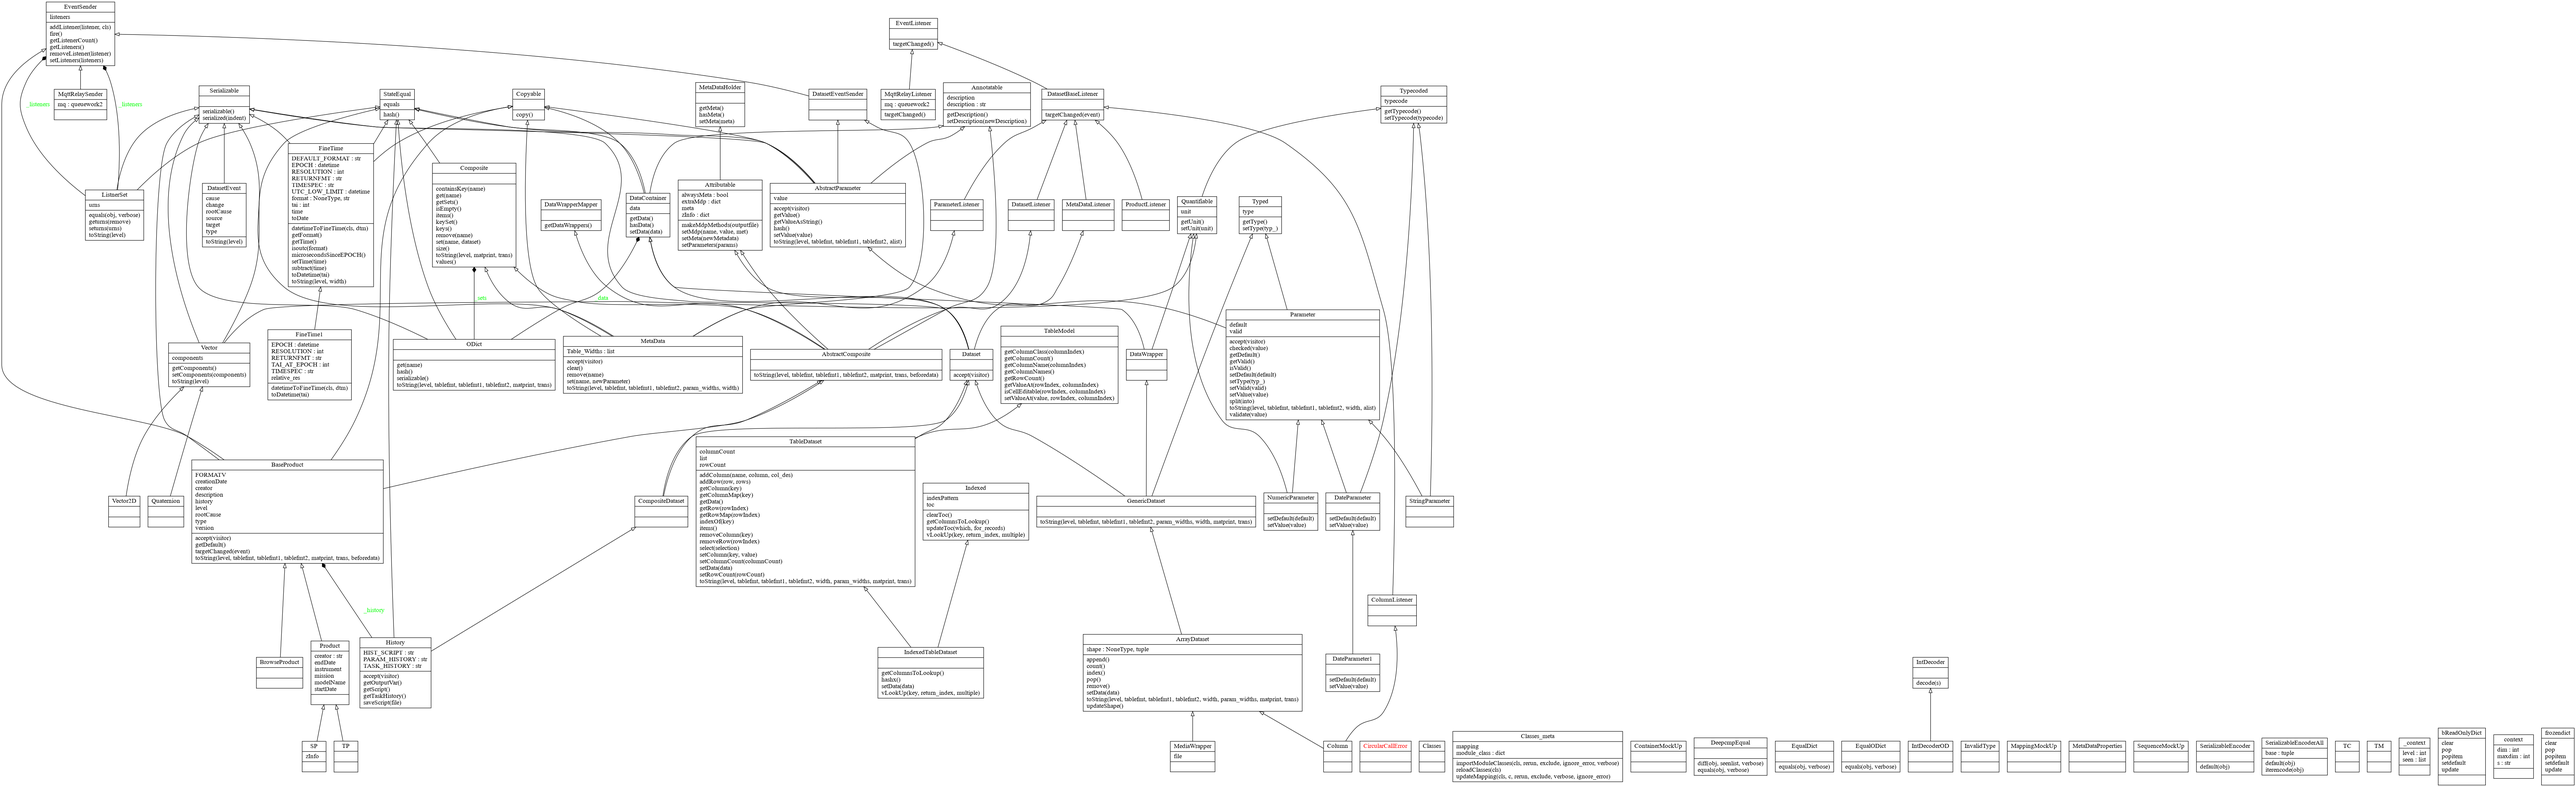
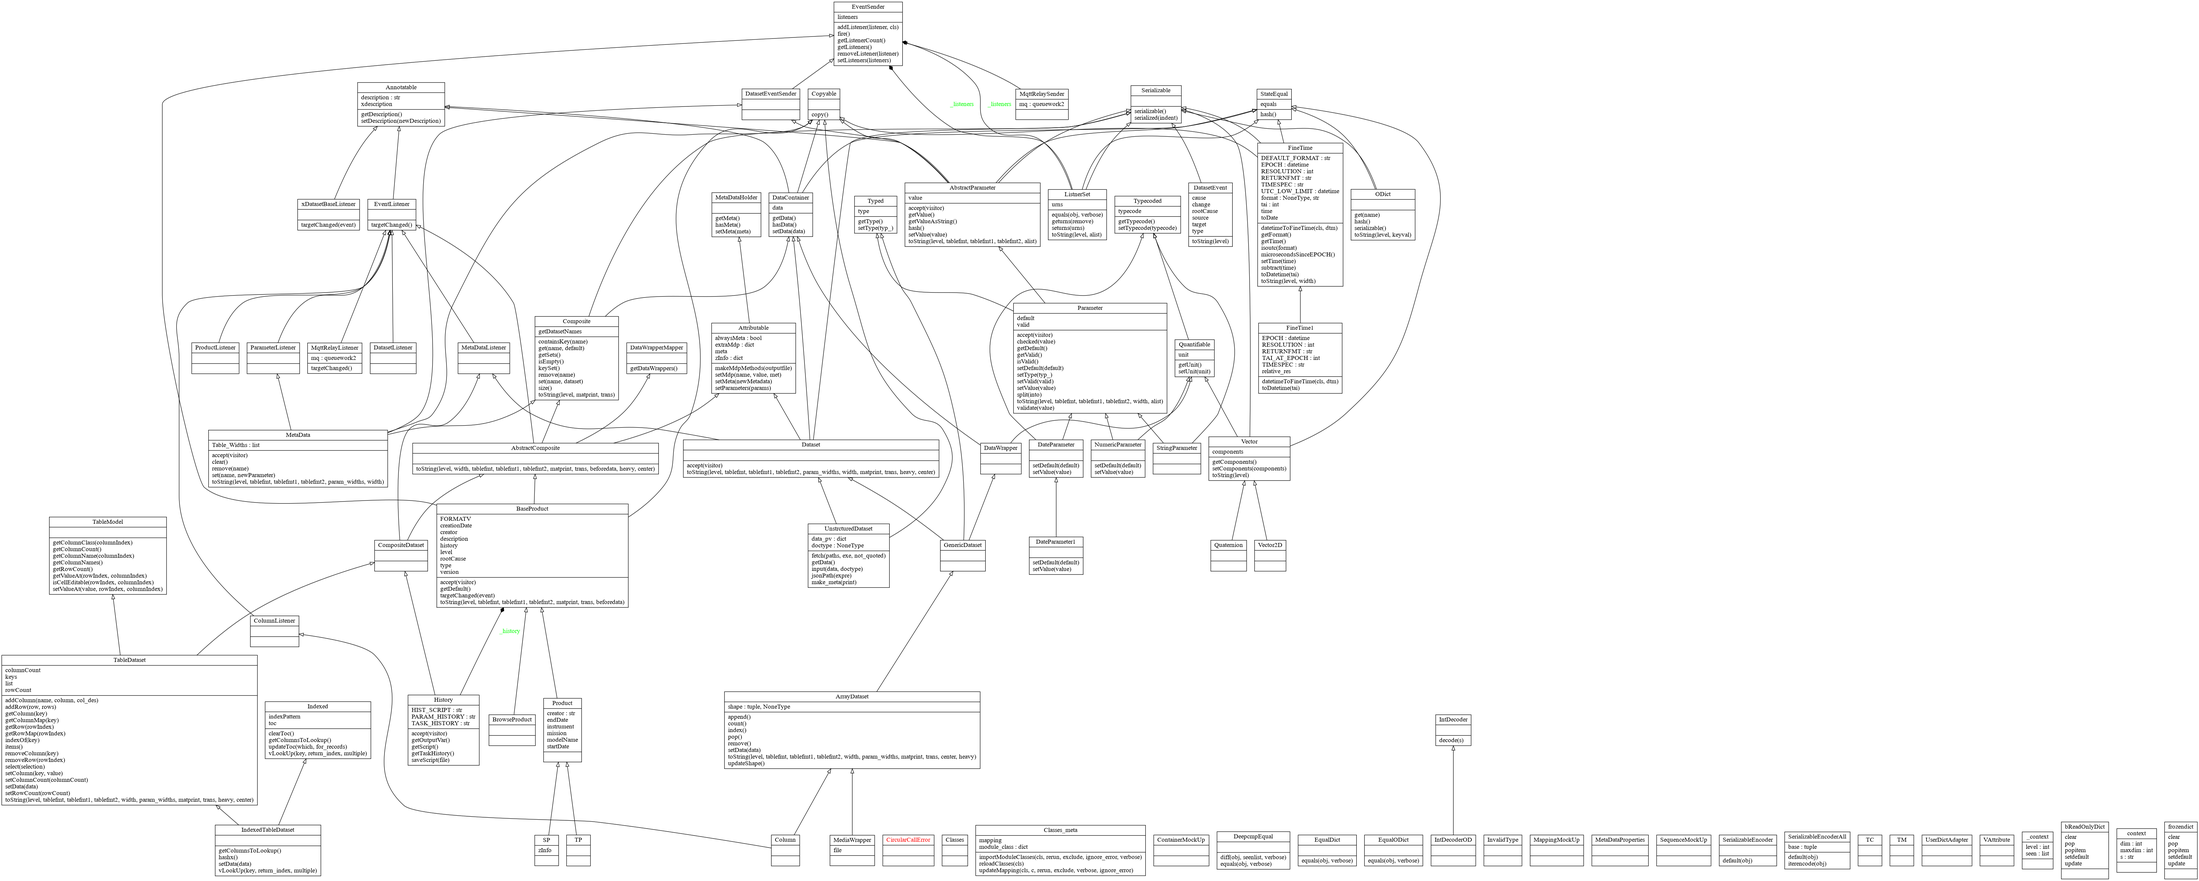
Composite inherites MutableMappin so datasets drops 'data' in serialized forms, and have more streamlined toastring. UnstructuredDataset with JSONPath.

diff --git a/fdi/dataset/listener.py b/fdi/dataset/listener.py
@@ -32,7 +32,7 @@ class EventListener(Annotatable):
         pass
 
 
-class DatasetBaseListener(Annotatable):
+class xDatasetBaseListener(Annotatable):
     """ Generic interface for listeners that will listen to events
     happening on a target of a specific type.
     Java Warning:
@@ -171,24 +171,25 @@ class ListnerSet(Serializable, DeepEqual, UserList):
         LIST[TUPLE(OBJ)] or STRXS
         A list of member-repre tuples or a string of all depending on `alist`.
         """
+
         if level == 0:
             if alist:
                 l = [(x.__class__.__name__, id(x),
-                      lls(x.description, 20))
+                      lls((x.description if hasattr(x, 'description') else 'UNKNOWN'), 20))
                      for x in self.data]
             else:
                 l = ['%s(%d, %s)' % (x.__class__.__name__, id(x),
-                                     lls(x.description, 20))
+                                     lls((x.description if hasattr(x, 'description') else 'UNKNOWN'), 20))
                      for x in self.data]
 
         else:
             if alist:
                 l = [(x.__class__.__name__, id(x),
-                      lls(x.description, 8))
+                      lls((x.description if hasattr(x, 'description') else 'UNKNOWN'), 8))
                      for x in self.data]
             else:
                 l = ['%s(%d, %s)' % (x.__class__.__name__, id(x),
-                                     lls(x.description, 8))
+                                     lls((x.description if hasattr(x, 'description') else 'UNKNOWN'), 8))
                      for x in self.data]
         if alist:
             return l

diff --git a/tests/test_dataset.py b/tests/test_dataset.py
@@ -2117,9 +2117,9 @@ def test_UnstrcturedDataset():
     assert list(dict(x.value) for x in m) == [
         {'@unit': 'deg', '#text': '311.31'}]
 
-    assert str(
-        m[0].full_path) == 'TOO-REQUEST.DATA.OBSERVATION.SOURCE_CHARS.OBS_COORDINATES.RIGHT_ASCENSION'
-
+    assert str(m[0].full_path) == \
+        'TOO-REQUEST.DATA.OBSERVATION.SOURCE_CHARS.OBS_COORDINATES.RIGHT_ASCENSION'
+    # print(u.toString())
     checkjson(u)
     checkgeneral(u)
 

diff --git a/fdi/_version.py b/fdi/_version.py
@@ -1,2 +1,2 @@
-__version_info__ = (1, 8, 2)
+__version_info__ = (1, 9, 0)
 __version__ = '.'.join(map(str, __version_info__))

diff --git a/docs/sphinx/api/fdi/fdi.dataset.rst b/docs/sphinx/api/fdi/fdi.dataset.rst
@@ -321,6 +321,30 @@ fdi.dataset.typed module
    :undoc-members:
    :show-inheritance:
 
+fdi.dataset.unstructureddataset module
+--------------------------------------
+
+.. automodule:: fdi.dataset.unstructureddataset
+   :members:
+   :undoc-members:
+   :show-inheritance:
+
+fdi.dataset.unstructureddataset\_datamodel module
+-------------------------------------------------
+
+.. automodule:: fdi.dataset.unstructureddataset_datamodel
+   :members:
+   :undoc-members:
+   :show-inheritance:
+
+fdi.dataset.vattribute module
+-----------------------------
+
+.. automodule:: fdi.dataset.vattribute
+   :members:
+   :undoc-members:
+   :show-inheritance:
+
 fdi.dataset.yaml2python module
 ------------------------------
 

diff --git a/CHANGELOG.rst b/CHANGELOG.rst
@@ -6,6 +6,11 @@ Change Log
 BETA0
 =====
 
+1.9.0 2021-09-25
+----------------
+Composite inherites MutableMappin so datasets drops 'data' in serialized forms, and have more streamlined toastring. UnstructuredDataset with JSONPath.
+
+
 1.8.0 2021-09-02
 ----------------
 Refactor HTTP Pool server into Flask app directory and document/demo improved API with Flasgger and OpenAPI 3..
